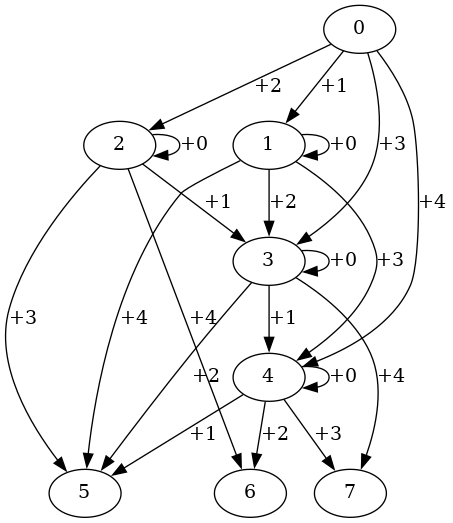
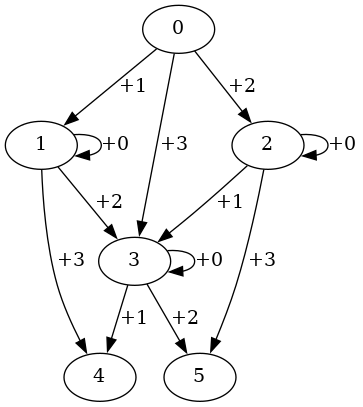
Trying to work out how to paralellise relationships

diff --git a/main.py b/main.py
@@ -1,4 +1,5 @@
 from subprocess import Popen, PIPE
+from pprint import pprint
 
 
 class Graph:
@@ -21,19 +22,21 @@ class Graph:
     graph = "digraph G {"
     for item, value in self.adjacency.items():
       for link in value:
-        graph += "\"{}\" -> \"{}\" [label=\"{}\"];".format(item, link[0], link[1])
+        graph += "\"{}\" -> \"{}\" [label=\"{}\"];".format(
+            item, link[0], link[1])
     graph += "}"
 
     dot.communicate(graph.encode("utf8"))
 
+
 drawn = {}
-count = 5
+count = 4
 g = Graph("numbers")
 for a in range(0, count):
   for b in range(0, count):
     if b == a:
       continue
-    
+
     if a not in drawn:
       drawn[a] = []
     if b in drawn[a]:
@@ -42,7 +45,61 @@ for a in range(0, count):
     # diff = a - b
     #g.add_link(a, (b, str(diff)))
     sum = a + b
-    g.add_link(a, (sum, "+"+str(b)))
+    g.add_link(a, (sum, "+" + str(b)))
 
 g.draw()
-  
+
+alphabet = "abcdefghijklmnopqrstuvwxyz"
+commands = [
+    "create message", "send_message_to_follower", "mute", "follow",
+    "add_to_timeline", "unfollow", "like", "fanout", "unlike", "share",
+    "stream", "upload", "fanout", "fanout", "fanout", "fanout", "fanout",
+    "fanout", "fanout", "fanout", "fanout", "fanout", "fanout", "fanout",
+    "fanout", "fanout", "fanout"
+]
+# how do you map addition to IO?
+# need to get data to the right places in the most efficient way
+inboxes = {}
+for item in range(0, len(commands)):
+  inboxes[item] = []
+start = 0
+event = 0
+sequence = [0, 3, -3, 3, 2]
+
+
+def run(event):
+  for number in sequence:
+
+    new_event = event + number
+    print(new_event)
+    print("{} {} -> {} {}".format(event, commands[event], new_event,
+                                  commands[new_event]))
+    inboxes[new_event].append(event)
+    output = start
+    coutput = start
+    a = min(event, new_event)
+    b = max(event, new_event)
+    for intermediary in range(a, b):
+      print("{} {} -> {} {}".format(new_event, commands[new_event],
+                                    intermediary, commands[intermediary]))
+      output = "{}({})".format(alphabet[intermediary], output)
+      coutput = "{}({})".format(commands[intermediary], coutput)
+    print(output)
+    print(coutput)
+    event = new_event
+
+
+run(event)
+
+pprint(inboxes)
+
+# import itertools
+
+# user_size = 20
+# users = list(range(0, user_size))
+# permutations = list(itertools.product([0, 1], repeat=user_size))
+# print(len(permutations))
+# print(permutations)
+
+# import itertools
+# print(list(itertools.product(["A", "B", "C"], repeat=3)))

diff --git a/README.md b/README.md
@@ -1,0 +1,19 @@
+# number-grids
+
+Is the behaviour of an event, another event, the outcome?
+
+Can events be created with mathematical operations, to produce new results?
+
+I'm a big fan of the work by Nathan Marz on Rama, see this blog post:
+[How we reduced the cost of building Twitter at Twitter-scale by 100x](https://blog.redplanetlabs.com/2023/08/15/how-we-reduced-the-cost-of-building-twitter-at-twitter-scale-by-100x/)
+
+I have an intuition that behaviour can be parallelised but I'm trying to work out how.
+
+I am trying to study the relationship of numbers to work out if there is a relationship that can be hooked into to provide for parallelisable behaviour.
+
+Parallelise relationships
+
+Update a field to say it's in their timeline
+
+permutation of followers
+
